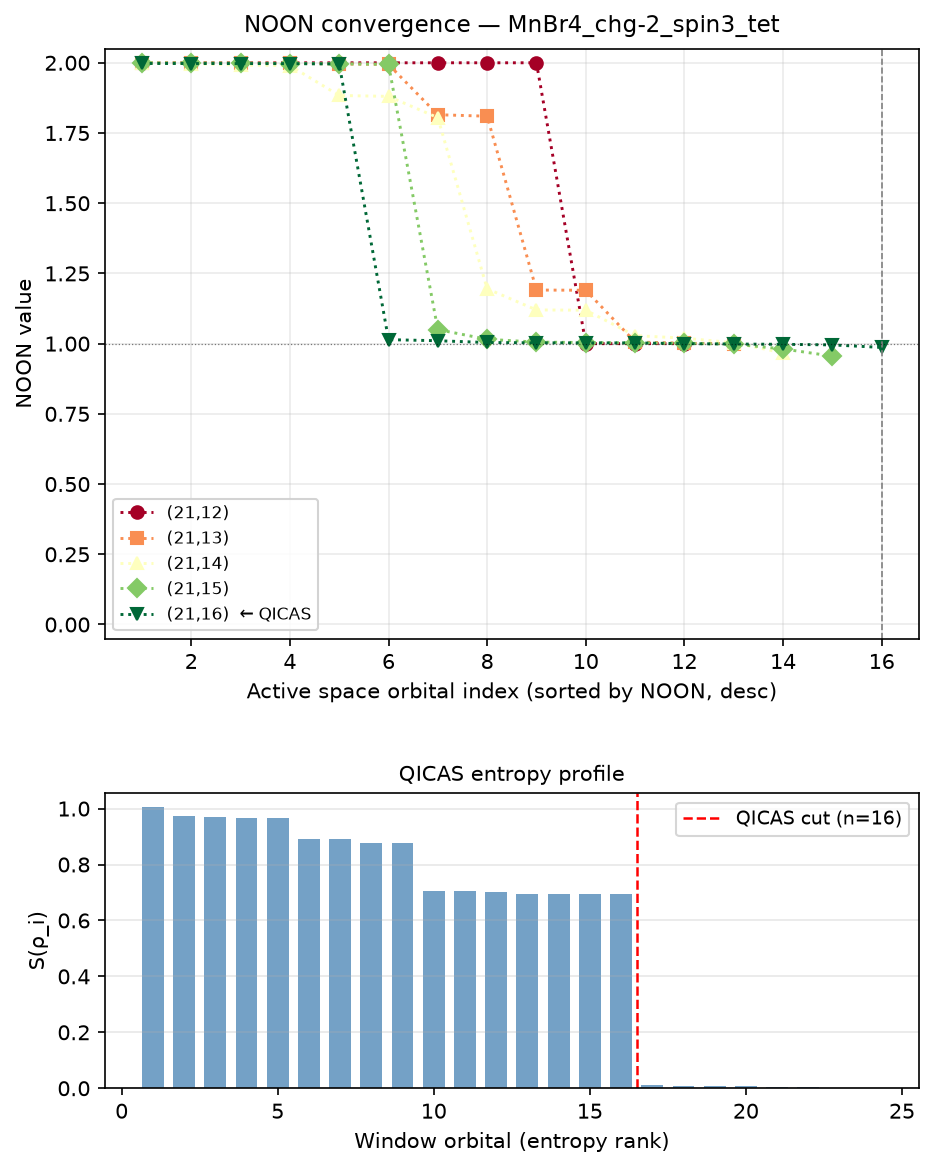
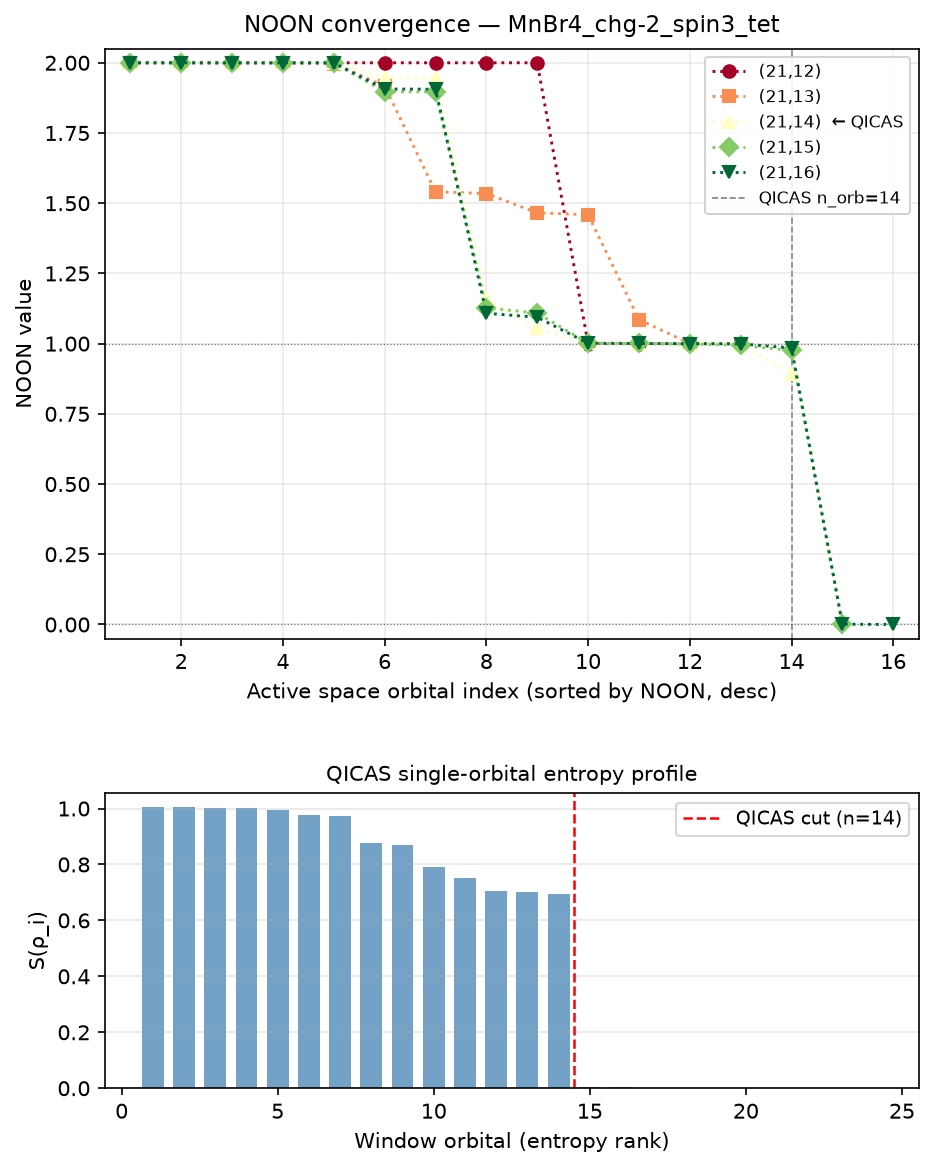
add --qicas-n-active override flag; complete PBE0 rerun all 9 systems

diff --git a/noon_convergence_scan.py b/noon_convergence_scan.py
@@ -249,7 +249,7 @@ def select_window(mf, s, scf):
 # ─────────────────────────────────────────────────────────────────────────────
 
 def run_qicas(name, s, out_json="qicas_result.json",
-              M=100, nsweeps=30, scratch="/tmp/noon_scan"):
+              M=100, nsweeps=30, scratch="/tmp/noon_scan", args=None):
     """
     Run UHF + DMRG on the orbital window.
     Returns a dict saved to out_json with:
@@ -364,6 +364,10 @@ def run_qicas(name, s, out_json="qicas_result.json",
     if (n_elec_act - mol.spin) % 2 != 0: n_elec_act -= 2
     n_elec_act  = int(np.clip(n_elec_act, mol.spin, 2 * d_cas))
     print(f"  QICAS:  CAS({n_elec_act}, {d_cas})")
+    # Override from --qicas-n-active if provided (matches paper FQI result)
+    if getattr(args, "qicas_n_active", None):
+        print(f"  [OVERRIDE] n_active {d_cas} → {args.qicas_n_active} (from --qicas-n-active)")
+        d_cas = args.qicas_n_active
 
     # ── Save result ───────────────────────────────────────────────────────────
     result = {
@@ -637,6 +641,8 @@ def parse_args():
                    help="Scan n_qicas + n_above sizes (default: 2)")
     p.add_argument("--max-orbs",    type=int, default=16,
                    help="Hard cap on n_orb to avoid memory wall (default: 16)")
+    p.add_argument("--qicas-n-active", type=int, default=None,
+                   help="Override QICAS n_active from paper (shifts dashed line to match paper)")
     p.add_argument("--scratch",     default="/tmp/noon_scan",
                    help="DMRG scratch directory")
     p.add_argument("--qicas-json",  default="qicas_result.json")
